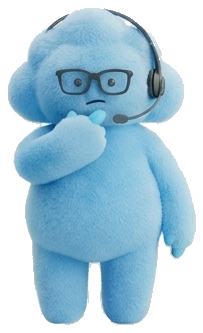
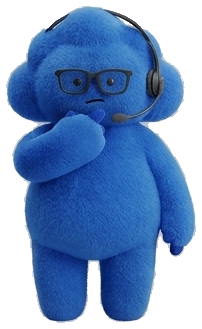
chat: darker royal-blue agent (launcher + header), header lined up below the X

diff --git a/app/components/landing/ChatWidget.tsx b/app/components/landing/ChatWidget.tsx
@@ -81,7 +81,7 @@ export function ChatWidget() {
     ) : (
      <span className="relative h-full w-full overflow-hidden rounded-full">
       {/* eslint-disable-next-line @next/next/no-img-element */}
-      <img src="/chat-agent.png" alt="Chat with CloudGreet AI" className="h-full w-full object-cover" />
+      <img src="/chat-agent.png" alt="Chat with CloudGreet AI" className="h-full w-full object-cover object-top" />
      </span>
     )}
    </motion.button>
@@ -99,7 +99,7 @@ export function ChatWidget() {
       className="fixed bottom-24 right-5 z-[70] flex h-[min(72vh,600px)] w-[min(93vw,392px)] flex-col overflow-hidden rounded-[26px] border border-black/5 bg-white shadow-[0_40px_90px_-25px_rgba(15,23,42,0.55)]"
      >
       {/* Header */}
-      <div className="relative min-h-[120px] overflow-hidden bg-gradient-to-br from-blue-600 to-blue-700 px-5 py-4 text-white">
+      <div className="relative min-h-[124px] overflow-hidden bg-gradient-to-br from-blue-600 to-blue-700 px-5 py-4 text-white">
        <div className="pointer-events-none absolute -right-6 -top-10 h-32 w-32 rounded-full bg-white/15 blur-2xl" />
        <button
         type="button"
@@ -114,7 +114,7 @@ export function ChatWidget() {
        <img
         src="/chat-agent-pose.png"
         alt=""
-        className="pointer-events-none absolute bottom-0 right-5 h-[78px] w-auto drop-shadow-[0_10px_18px_rgba(15,23,42,0.32)]"
+        className="pointer-events-none absolute bottom-0 right-4 h-[80px] w-auto drop-shadow-[0_10px_18px_rgba(15,23,42,0.32)]"
        />
        <div className="relative z-10 max-w-[58%]">
         <div className="text-[15px] font-semibold">CloudGreet AI</div>